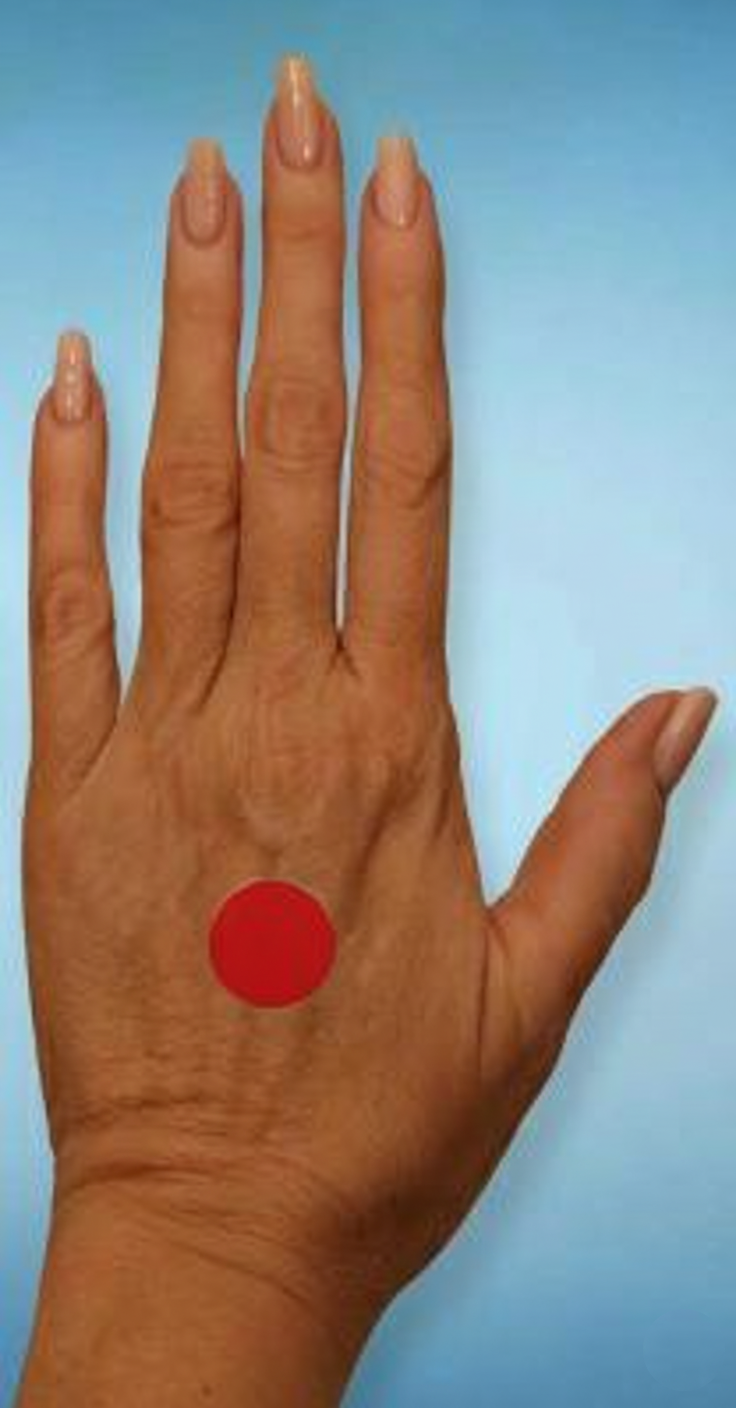
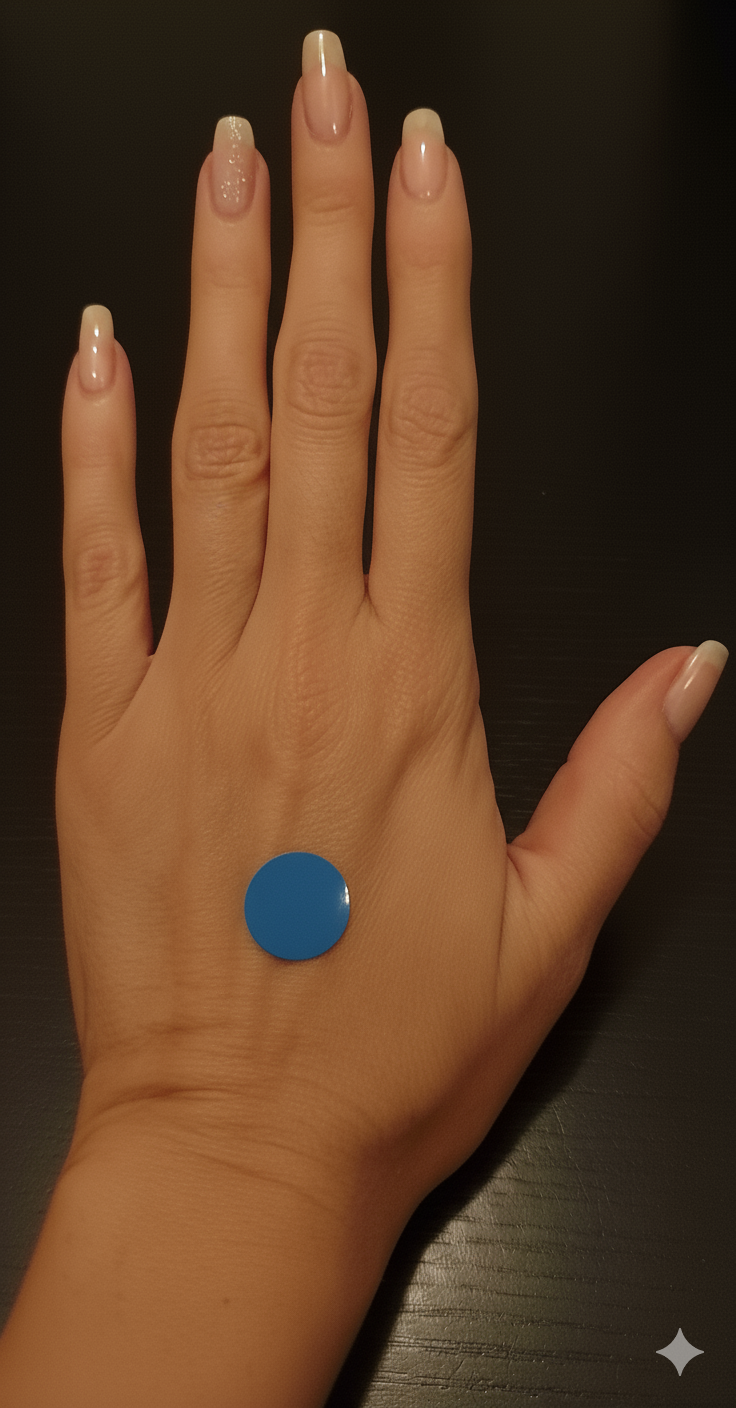
wip

diff --git a/app.py b/app.py
@@ -26,21 +26,21 @@ def predict_image(img, conf_threshold, iou_threshold):
 
     return im
 
-def find_point_inside_sticker(image):
-    rgb_image = cv2.cvtColor(image, cv2.COLOR_RGBA2RGB)
-    hsv_image = cv2.cvtColor(rgb_image, cv2.COLOR_RGB2HSV)
+def find_point_inside_sticker(image, color_ranges):
+    if isinstance(image, Image.Image):
+        image = np.asarray(image)
 
-    # Lower red range
-    lower_red1 = np.array([0, 120, 120])
-    upper_red1 = np.array([5, 255, 255])
-    mask1 = cv2.inRange(hsv_image, lower_red1, upper_red1)
+    image = cv2.cvtColor(image, cv2.COLOR_RGBA2RGB)
+    hsv_image = cv2.cvtColor(image, cv2.COLOR_RGB2HSV)
 
-    # Upper red range
-    lower_red2 = np.array([175, 120, 120])
-    upper_red2 = np.array([180, 255, 255])
-    mask2 = cv2.inRange(hsv_image, lower_red2, upper_red2)
+    final_mask = np.zeros(image.shape[:2], dtype=np.uint8)
 
-    final_mask = mask1 + mask2
+    for color_range in color_ranges:
+        lower_color = np.array(color_range[0])  # [0, 120, 120]
+        upper_color = np.array(color_range[1])  # [5, 255, 255]
+        mask = cv2.inRange(hsv_image, lower_color, upper_color)
+
+        final_mask = final_mask + mask
 
     y_coords, x_coords = np.where(final_mask > 0)
 
@@ -48,6 +48,12 @@ def find_point_inside_sticker(image):
         return final_mask, int(np.mean(x_coords)), int(np.mean(y_coords))
     else:
         return final_mask, 0, 0
+
+def segment_from_point(input_image, x, y):
+    session = new_session("sam")
+    sam_prompt = [{"type": "point", "data": [x, y], "label": 1}]
+    image_without_bg_pil = remove(input_image, session=session, sam_prompt=sam_prompt)
+    return np.array(image_without_bg_pil)
 
 def calc_sticker_in_hand(input_image):
     """
@@ -69,15 +75,26 @@ def calc_sticker_in_hand(input_image):
     hand_num_pixels = np.count_nonzero(hand_img_without_bg_alpha)
 
     # 4. Find a point inside the sticker.
-    final_mask, sticker_x, sticker_y = find_point_inside_sticker(hand_img_without_bg)
+    final_mask, sticker_x, sticker_y = find_point_inside_sticker(
+        hand_img_without_bg,
+        [
+            # Blue range
+            [[100, 80, 80],
+             [140, 200, 200]],
+        ]
+        # [
+        #     # Red range
+        #     [[0, 120, 120], [5, 255, 255]],
+        #     # Upper red range
+        #     [[175, 120, 120], [180, 255, 255]]
+        # ],
+
+    )
 
     print(f"Sticker point: ({sticker_x}, {sticker_y})")
 
     # 5. Segment the sticker based on the point inside the sticker
-    session = new_session("sam")
-    sam_prompt = [{"type": "point", "data": [sticker_x, sticker_y], "label": 1}]
-    sticker_without_bg_pil = remove(input_image, session=session, sam_prompt=sam_prompt)
-    sticker_without_bg = np.array(sticker_without_bg_pil)
+    sticker_without_bg = segment_from_point(input_image, sticker_x, sticker_y)
 
     # # draw a test circle
     # cv2.circle(sticker_without_bg, (sticker_x, sticker_y), 7, (0, 255, 0), -1)  # Draw a green dot
@@ -90,11 +107,29 @@ def calc_sticker_in_hand(input_image):
 
     return hand_img_without_bg, sticker_without_bg, sticker_num_pixels / hand_num_pixels
 
-def calc_vitiligo_areaIn_hand(input_image, sticker_in_hands):
+def calc_vitiligo_area_in_hand(input_image, sticker_in_hands, conf_threshold, iou_threshold):
     """
     desc
     """
-    return [input_image, input_image, sticker_in_hands]
+
+    # 1. Find a point inside the sticker.
+    final_mask, sticker_x, sticker_y = find_point_inside_sticker(
+        np.array(input_image),
+        [
+            # Blue range
+            [[100, 80, 80],
+             [140, 200, 200]],
+        ]
+    )
+
+    im = predict_image(input_image, conf_threshold, iou_threshold)
+
+    print(f"Sticker point: ({sticker_x}, {sticker_y})")
+
+    # 2. Segment the sticker based on the point inside the sticker
+    sticker_without_bg = segment_from_point(input_image, sticker_x, sticker_y)
+
+    return im, input_image, sticker_in_hands
 
 debug = True
 
@@ -125,10 +160,12 @@ with gr.Blocks() as demo:
                 """
             )
             area_img = gr.Image(type="pil", label="Upload a picture of your anatomical area with sticker", height=400)
+            with gr.Accordion("Advanced options", open=False):
+                conf_threshold = gr.Slider(minimum=0, maximum=1, value=0.25, label="Confidence threshold"),
+                iou_threshold = gr.Slider(minimum=0, maximum=1, value=0.7, label="IoU threshold"),
             calculate_btn = gr.Button("Calculate the vitiligo area", variant="primary")
 
             if debug:
-
                 segmented_area_img = gr.Image(type="pil", label="Segmented anatomical area", height=400)
                 segmented_area_sticker_img = gr.Image(type="pil", label="Segmented sticker", height=400)
         with gr.Column():
@@ -148,8 +185,8 @@ with gr.Blocks() as demo:
     )
 
     calculate_btn.click(
-        fn=calc_vitiligo_areaIn_hand,
-        inputs=[area_img, sticker_in_hands],
+        fn=calc_vitiligo_area_in_hand,
+        inputs=[area_img, sticker_in_hands, conf_threshold, iou_threshold],
         outputs=[segmented_area_img, segmented_area_sticker_img, vitiligo_area_in_hands],
     )
 
